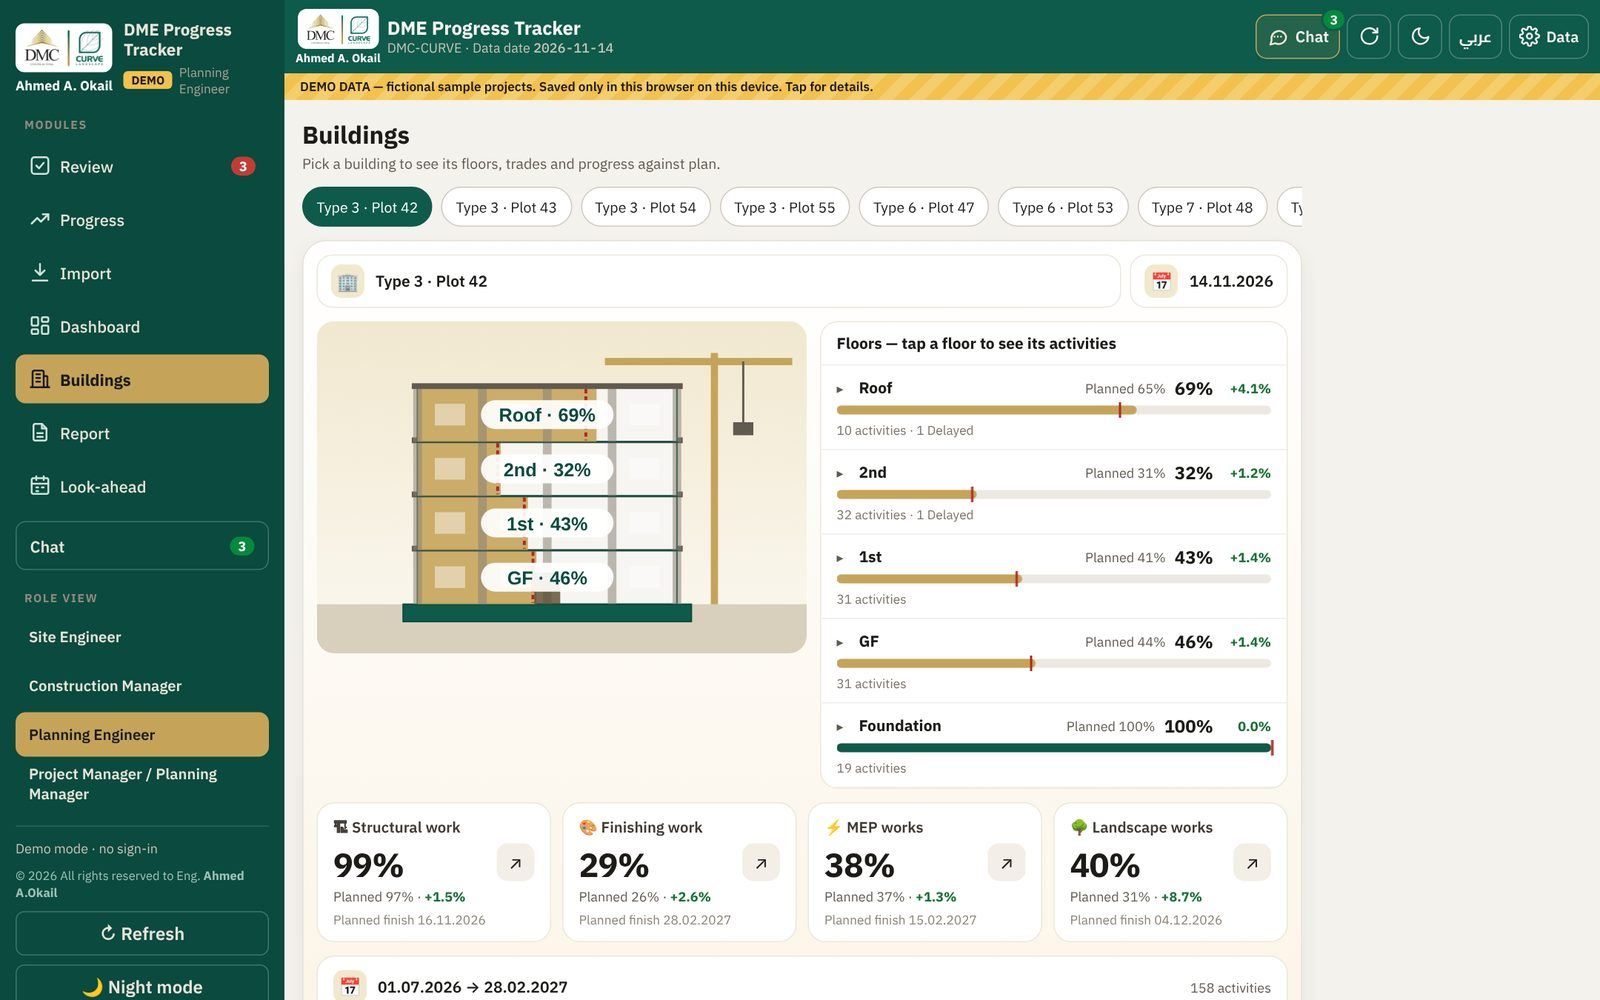
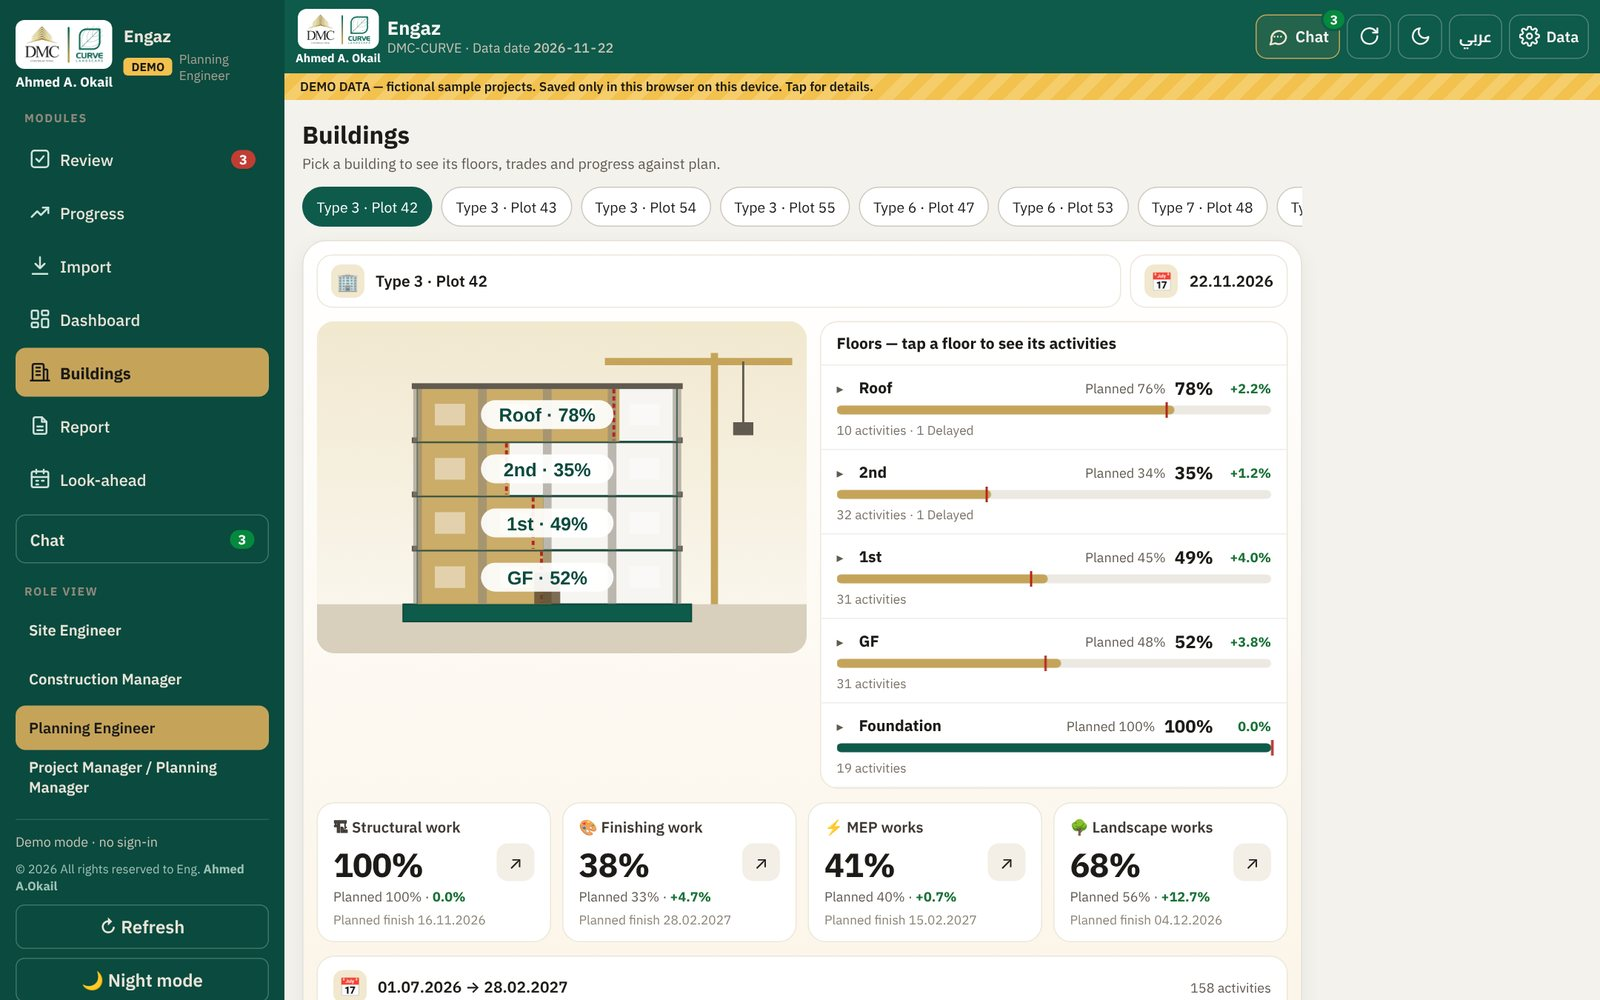
Update app screenshots with the Engaz name
Claude-Session: https://claude.ai/code/session_01FSJgK8K4Cozr3sgfaiEheS

diff --git a/index.html b/index.html
@@ -113,7 +113,7 @@
   <section id="labs">
     <div class="wrap">
       <div class="sheet reveal"><div><div class="no">04 / TOOLS</div><h2 data-i="labsT"></h2></div><p data-i="labsP"></p></div>
-      <a class="feat-app reveal" href="app.html"><img src="assets/app/dash.jpg" alt="Engaz app dashboard" loading="lazy"><div class="fa"><div><span class="chip" data-i="faK"></span></div><h3 data-i="appName"></h3><p data-i="faP"></p><span class="go" data-i="faGo"></span></div></a>
+      <a class="feat-app reveal" href="app.html"><img src="assets/app/dash.jpg?v=2" alt="Engaz app dashboard" loading="lazy"><div class="fa"><div><span class="chip" data-i="faK"></span></div><h3 data-i="appName"></h3><p data-i="faP"></p><span class="go" data-i="faGo"></span></div></a>
       <div style="height:16px"></div>
       <div class="labs">
         <a class="labcard reveal" href="evm.html">

diff --git a/app.html b/app.html
@@ -44,7 +44,7 @@
     <div class="wrap">
       <figure class="app-hero reveal">
         <div class="frame"><span></span><span></span><span></span></div>
-        <img src="assets/app/dash.jpg" alt="Project dashboard" loading="eager" width="1600" height="1000">
+        <img src="assets/app/dash.jpg?v=2" alt="Project dashboard" loading="eager" width="1600" height="1000">
       </figure>
       <p class="hint app-note" data-i="note"></p>
       <div class="counters reveal">
